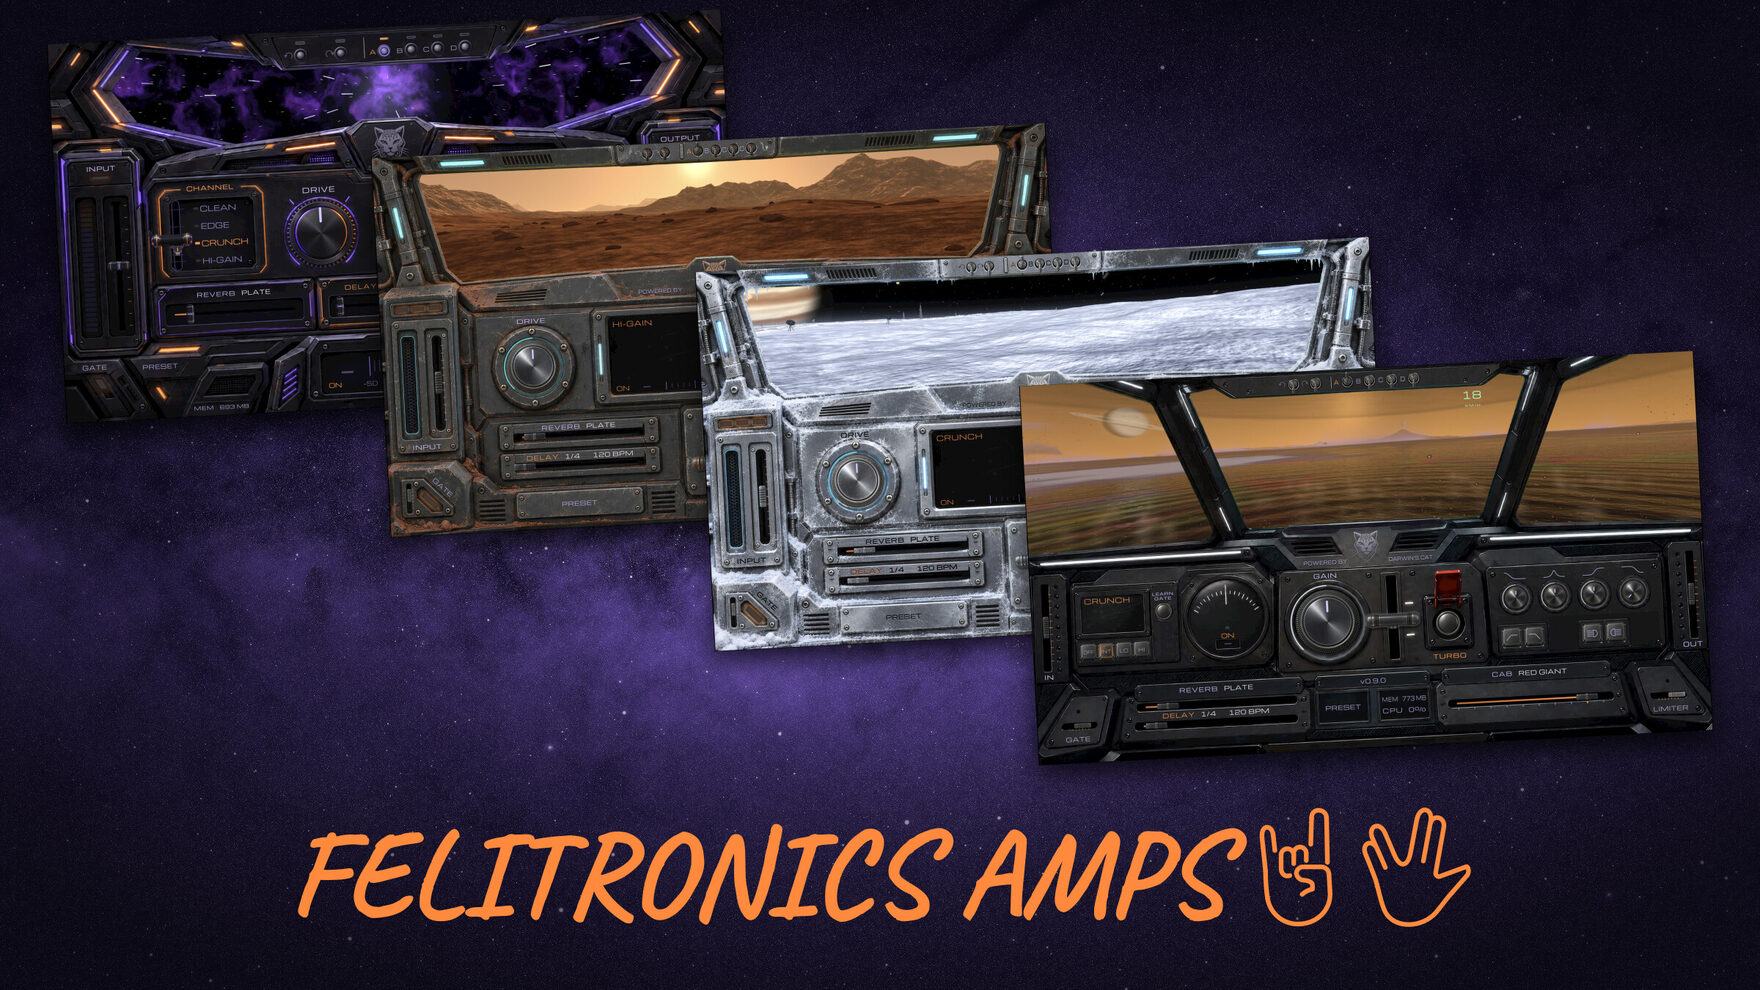
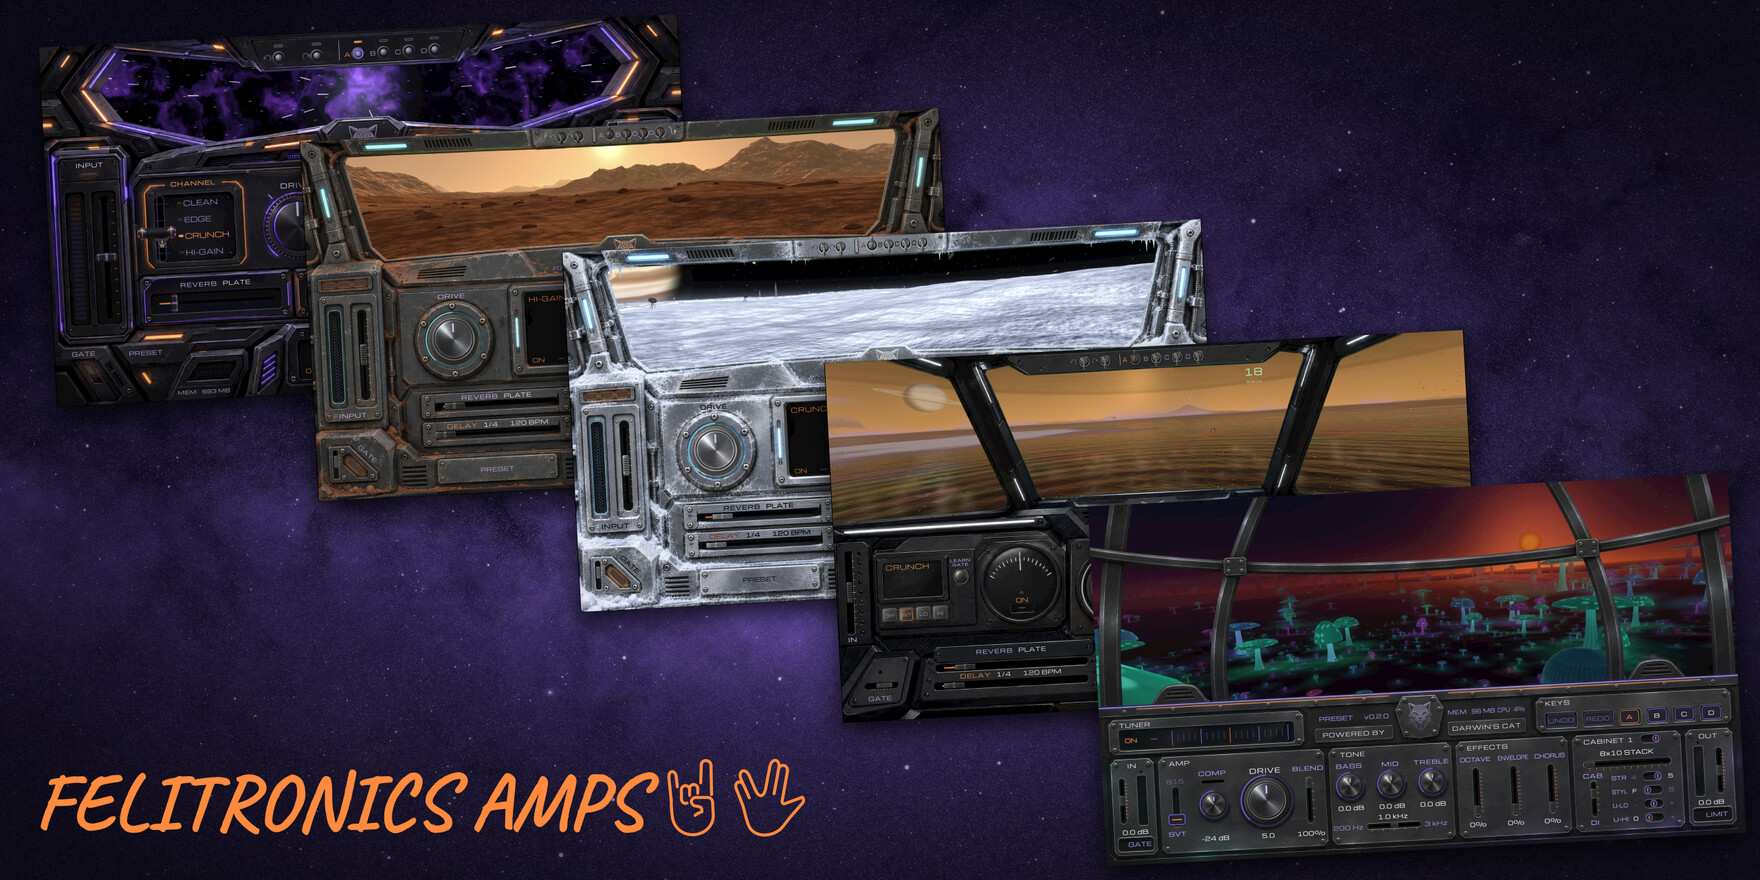
README: the picture at the top shows RedGrooveBass too, the mushroom forest of Teegarden b beside the four worlds; each cabin larger, each next one lower by the window of the one before, so every window is in sight

diff --git a/README.md b/README.md
@@ -1,6 +1,6 @@
 # Felitronics Amps
 
-<p align="center"><img src="docs/readme/amps.jpg" alt="Felitronics Amps: CatpitAmp, RedPawAmp, FrostPawAmp and AmberPawAmp, a starship's cockpit, Mars, the ice of Europa and Titan" width="880"></p>
+<p align="center"><img src="docs/readme/amps.jpg" alt="Felitronics Amps: CatpitAmp, RedPawAmp, FrostPawAmp, AmberPawAmp and RedGrooveBass, a starship's cockpit, Mars, the ice of Europa, Titan and the mushroom forest of Teegarden b" width="880"></p>
 
 Free, open-source guitar and bass amp plugins, ready to play. VST3, AU and CLAP plugins and a standalone app for
 Windows, macOS and Linux. This repository builds them all: OrbitAmp, CatpitAmp, RedPawAmp,
